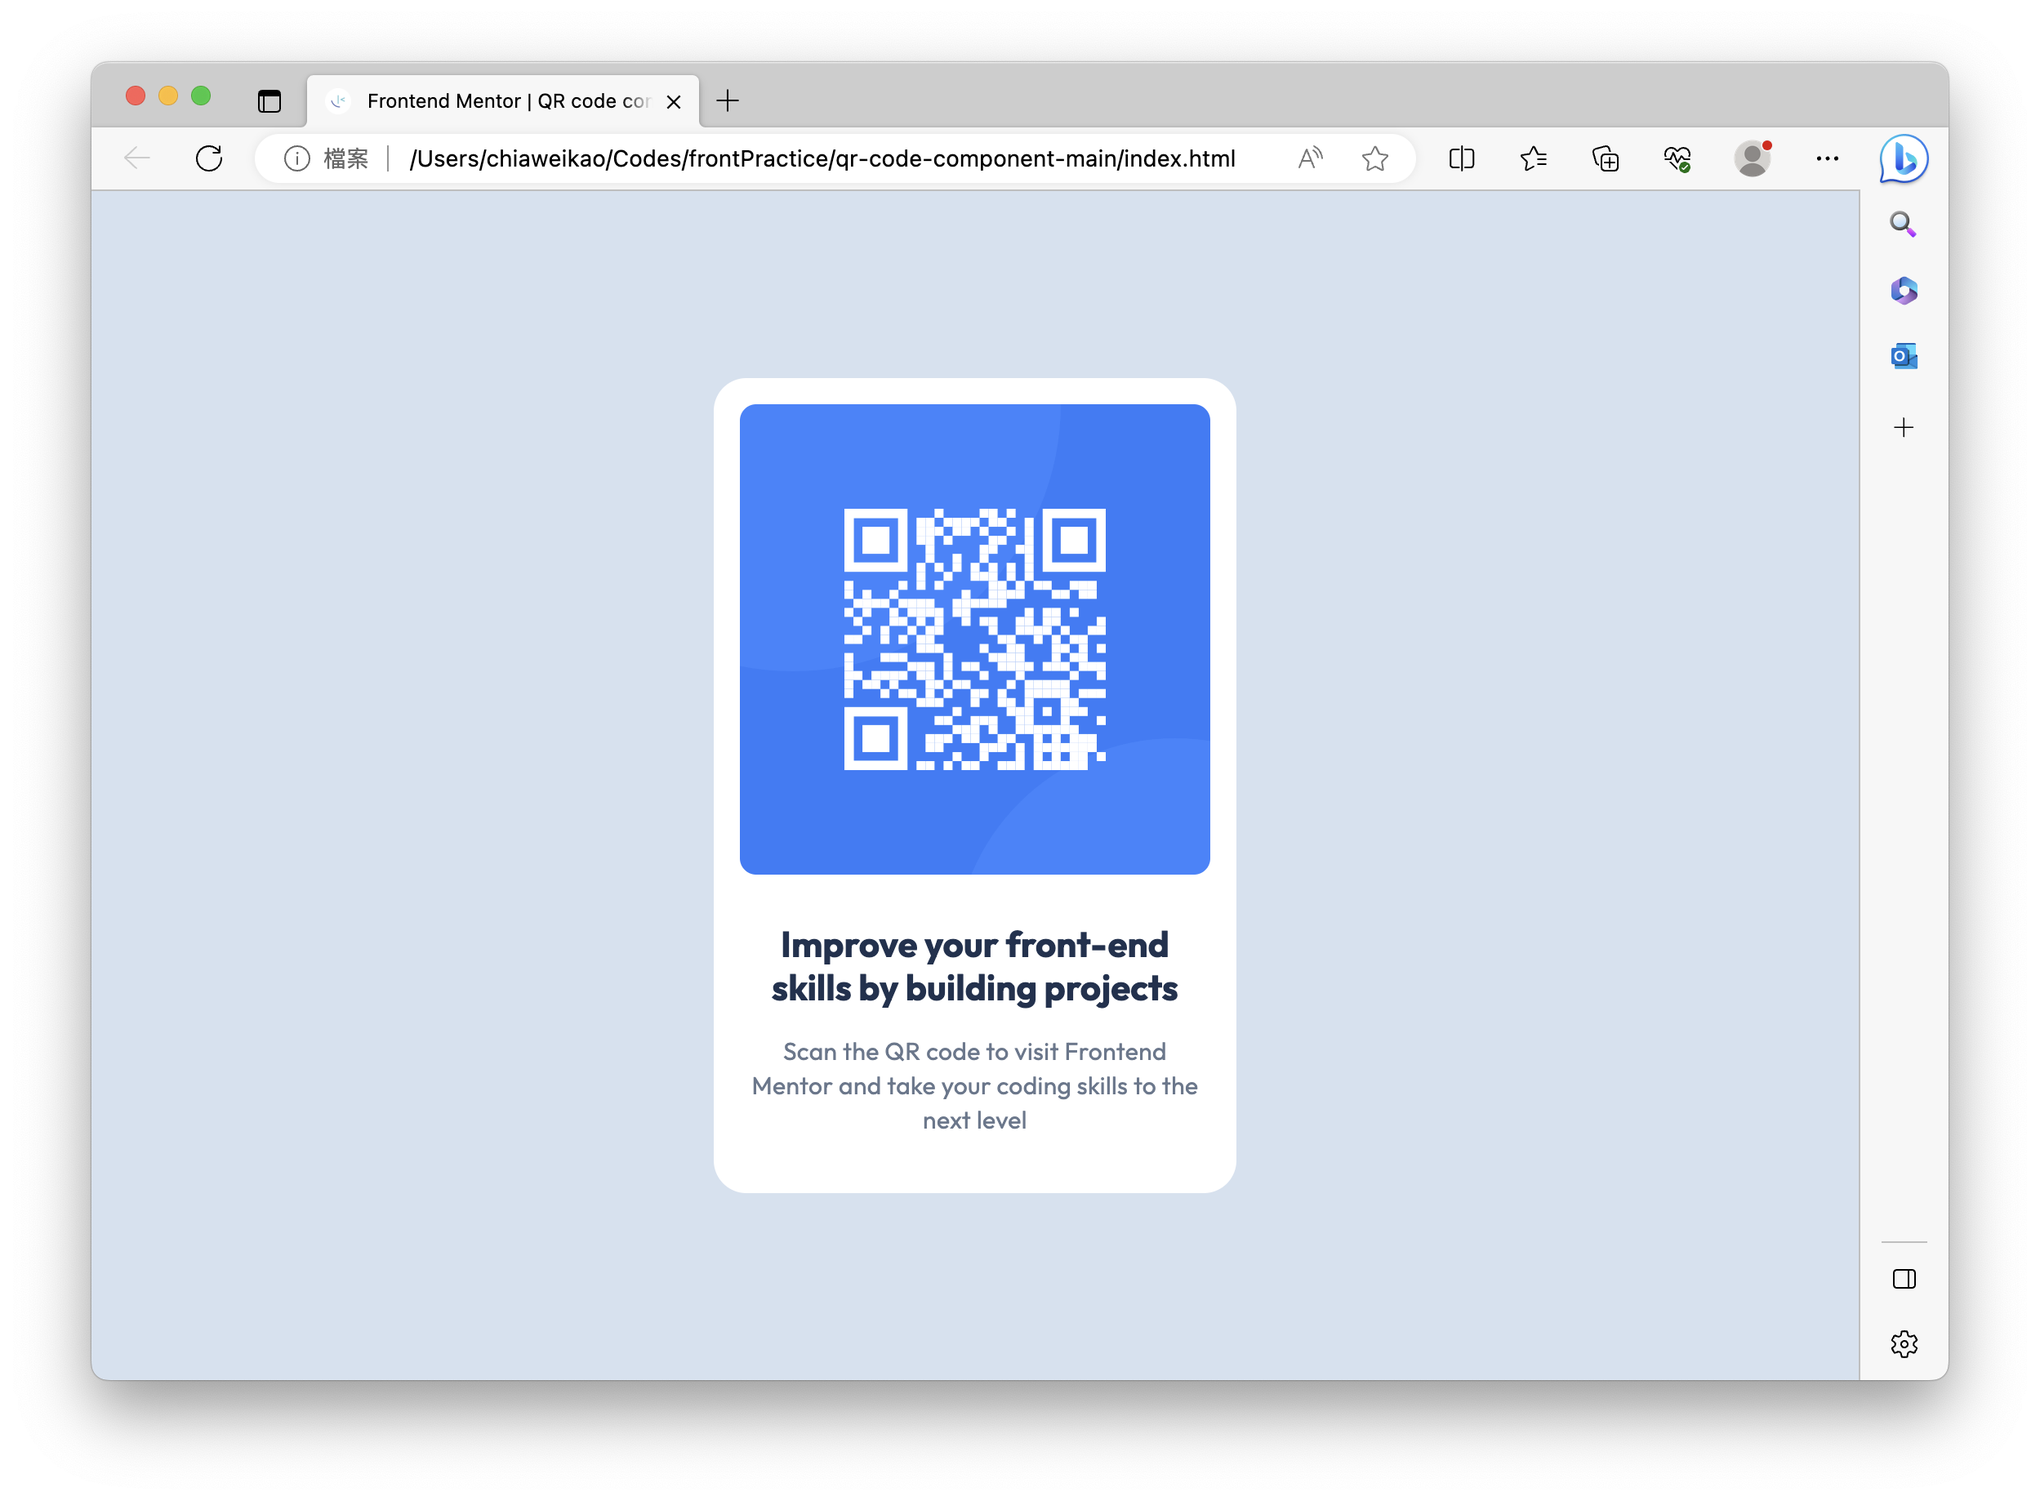
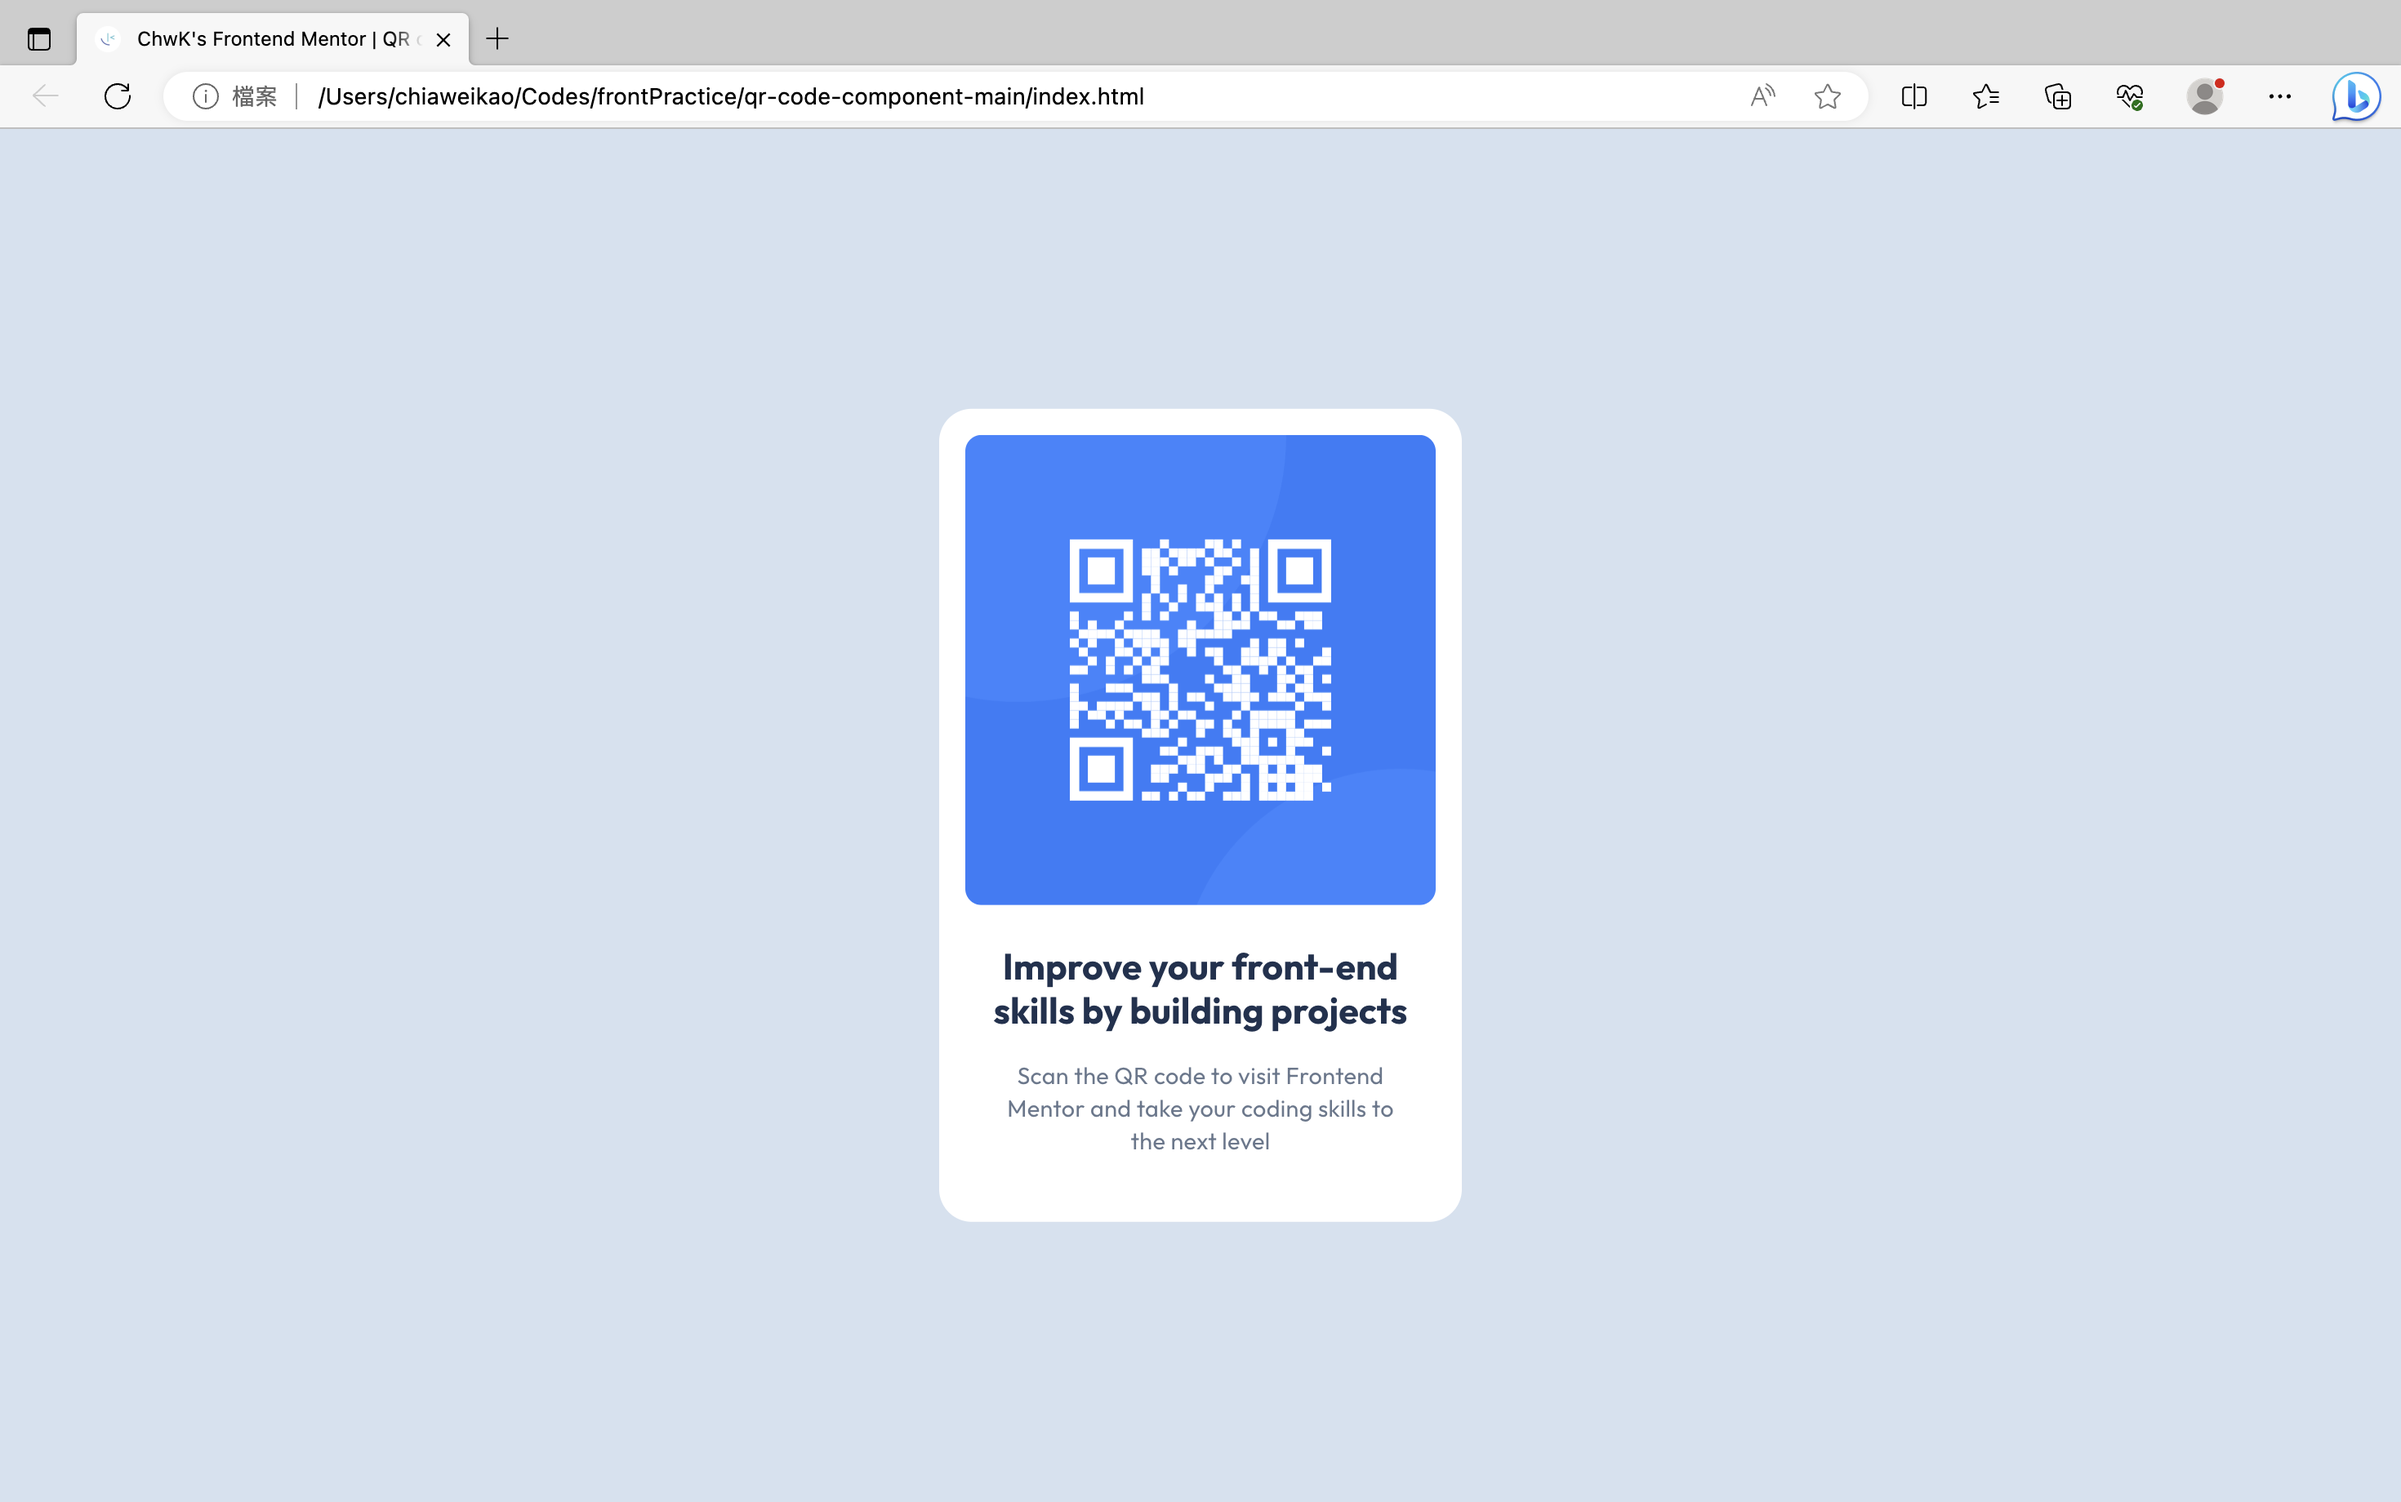
style(ui):1.add new div tag to hold the title and paragraph elements. 2.change the css properties under classname: textContainer. 3.add a new classname textParagraph to define css properties of paragraph.

diff --git a/style/style.css b/style/style.css
@@ -4,9 +4,8 @@ body {
 
 .container {
     background-color: #FFFFFF;
-    border-radius: 20px;
-    width: 320px;
-    height: 499px;
+    border-radius: 1.25rem;
+    padding-block: 1rem;
     position: absolute;
     left: 50%;
     top: 50%;
@@ -15,24 +14,23 @@ body {
 
 .container div,
 img {
-    margin-left: 16px;
-    margin-right: 16px;
+    margin-left: 1rem;
+    margin-right: 1rem;
 }
 
 .imgFrame {
-    width: 288px;
-    height: 288px;
+    width: 18rem;
+    height: 18rem;
     border-radius: 10px;
     position: relative;
-    margin-top: 16px;
 }
 
 .title {
-    font-size: 22px;
-    line-height: 120%;
+    font-size: 1.4rem;
+    line-height: 1.2;
     font-weight: bold;
-    letter-spacing: 0px;
-    margin-top: 24px;
+    letter-spacing: 0rem;
+    margin-top: 1.5rem;
     text-align: center;
     color: #1F314F;
     font-family: "Outfit", sans-serif;
@@ -41,9 +39,16 @@ img {
 }
 
 .textContainer {
-    font-size: 15px;
-    line-height: 140%;
-    letter-spacing: 0.2px;
+    width: 18rem;
+    margin-bottom: 1.5rem;
+    padding-inline: 1rem;
+}
+
+.textParagraph {
+    margin-top: 1rem;
+    font-size: 0.9rem;
+    line-height: 1.4;
+    letter-spacing: 0.01rem;
     color: #68778D;
     text-align: center;
     font-family: "Outfit", sans-serif;

diff --git a/index.html b/index.html
@@ -17,9 +17,9 @@
   <main>
     <div class="container">
       <img src="images/image-qr-code.png" class="imgFrame" alt="Qr-code of frontendmetor website.">
-      <div>
+      <div class="textContainer">
         <h1 class="title">Improve your front-end skills by building projects</h1>
-        <p class="textContainer">
+        <p class="textParagraph">
           Scan the QR code to visit Frontend Mentor and take your coding skills to the next level
         </p>
       </div>
